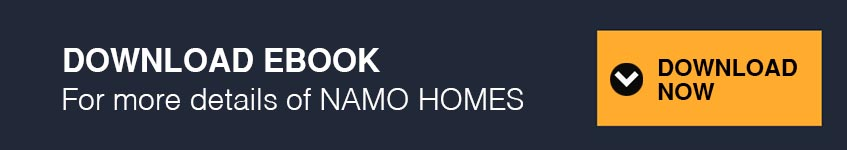
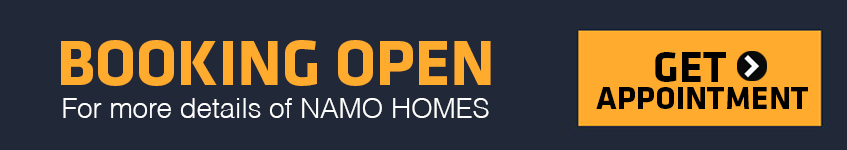
ddd

Changed region(s): [[0.0614, 0.2667, 0.6446, 0.8], [0.6753, 0.1867, 0.9823, 0.8533]]

diff --git a/dev/index2.html b/dev/index2.html
@@ -63,11 +63,15 @@
                   </p>
                   <p>Sprawled over 6.5 acres on Shivpuri-Gwalior National Highway (NH 27), Jhansi, the beautifully designed duplex villaments, offer all contemporary world-class facilities. The thoughtful design offers unobstructed views, spacious double-height living rooms, natural light at every level and complete privacy. </p>
                   <br> <br>
-				  <a href="#" data-toggle="modal" data-target=".contact-agent-modal" class="schedule-visit-btn-2">Schedule Visit <i class="fa fa-arrow-circle-right"></i></a>
-                  <a href="img/blog-post/namo-homes-ebook.pdf" target="_blank"><img src="img/page-title/visit.jpg"></a>
+				  <a href="#" data-toggle="modal" data-target=".contact-agent-modal" class="schedule-visit-btn-2"><img src="img/page-title/visit.jpg"></a>
+               <!--   
+			    <i class="fa fa-arrow-circle-right"></i>
+			   <a href="img/blog-post/namo-homes-ebook.pdf" target="_blank"></a>
 				  
 				  					<a href="#" data-toggle="modal-pdf" data-target=".contact-pdf-modal" class="schedule-visit-btn-2">Schedule Visit <i class="fa fa-arrow-circle-right"></i></a>
 									<button data-custom-open="modal-1">close</button>
+									
+									-->
                   <!-- .room-amount --
                      <ul class="room-amount text-center clearfix">
                      	<li>
@@ -314,8 +318,8 @@
                </div>
                <div id="cform" class="contact-form-wrap">
                   <div class="section-title location	">
-                     <span>For Any Querry</span>
-                     <h2><span>contact our agent pdf</span></h2>
+                     <span>Free ebook </span>
+                     <h2><span>Downlod E-brochure</span></h2>
                   </div>
                   <!-- /.section-title -->
                 <!--  <form action=" https://formsubmit.co/info@namohomes.com " class="contact-form" method="POST">
@@ -347,7 +351,7 @@
     <p style="margin-top:10px; "> <input  type="text" name="tel" placeholder="Your Phone" required> 	</p> 
 	<p><textarea name="message" placeholder="Message"></textarea>                   </p>    
     <button type="submit" style="margin-top:10px; width:100%; background-color:burlywood; color:white" >Send</button>
-	<input type="hidden" name="_captcha" value="true">	
+	<input type="hidden" name="_captcha" value="false">	
 	<input type="hidden" name="_next" value="http://namohomes.com/dev/img/blog-post/namo-homes-ebook.pdf">
 
 </form> 
@@ -378,19 +382,19 @@
 				<div class="modal-contact-form">
 					<!-- .contact-form-wrap -->
 					<div class="contact-form-wrap anim-5-all" style="padding-top:20px;">
-						<form action="http://world5.commonsupport.com/html/apart-villa/inc/sendemail.php" class="contact-form row" >
-							<div class="" >
-								
-								<p><input name="name" type="text" placeholder="Name"></p>
-								<p><input name="phone" type="text" placeholder="Phone"></p>
-								<p><input name="email" type="text" placeholder="Email"></p>
-								<p><textarea name="message" placeholder="Message"></textarea></p>
-								<p><button type="submit">Get Appointment</button></p>
-								<input type="hidden" name="_next" value="http://namohomes.com/img/blog-post/namo-homes-ebook.pdf">
-								<input type="text" name="_honey" style="display:none">
-							</div>
+				
+						
+				  		<form  action=" https://formsubmit.co/info@namohomes.com " method="POST"  >
 
-						</form>
+							 <p style="margin-top:10px; "><input type="text" name="name" placeholder="Your Name"  required></p> 
+							 <p style="margin-top:10px;" ><input  type="email" name="email" placeholder="Your Email" required></p> 
+							<p style="margin-top:10px; "> <input  type="text" name="tel" placeholder="Your Phone" required> 	</p> 
+							<p><textarea name="message" placeholder="Message"></textarea>                   </p>    
+							<button type="submit" style="margin-top:10px; width:100%; background-color:black; color:white" >Send</button>
+							<input type="hidden" name="_captcha" value="false">	
+							<input type="hidden" name="_next" value="http://namohomes.com/">
+
+						</form> 
 					</div><!-- /.contact-form-wrap -->					
 				</div>
 			</div>
@@ -400,64 +404,9 @@
 </div>
 </div>
 
-<div class="modal-pdf fade contact-agent-modal" id="contact-agent-modal-pdf" tabindex="1" role="dialog" aria-labelledby="myModalLabel">
-	<div class="modal-dialog" role="document">
-		<div class="modal-content">
-			<div class="modal-header">
-				<h4 class="modal-title text-center" id="myModalLabel">Contact Our Agent PDF</h4>
-				<button type="button" class="close" data-dismiss="modal" aria-label="Close"><span aria-hidden="true">&times;</span></button>
-			</div>
-			<div class="modal-body">
-				<div id="appoint-from" class="modal-agent-info-box">
-				<div class="modal-contact-form">
-					<!-- .contact-form-wrap -->
-					<div class="contact-form-wrap anim-5-all" style="padding-top:20px;">
-						<form action="http://world5.commonsupport.com/html/apart-villa/inc/sendemail.php" class="contact-form row" >
-							<div class="" >
-								
-								<p><input name="name" type="text" placeholder="Name"></p>
-								<p><input name="phone" type="text" placeholder="Phone"></p>
-								<p><input name="email" type="text" placeholder="Email"></p>
-								<p><textarea name="message" placeholder="Message"></textarea></p>
-								<p><button type="submit">Get Appointment</button></p>
-							</div>
-
-						</form>
-					</div><!-- /.contact-form-wrap -->					
-				</div>
-			</div>
-		</div>
-
-</div>
-</div>
-</div>
-
-!-- [1] -->
-<div id="modal-1" aria-hidden="true">
-
-  <!-- [2] -->
-  <div tabindex="-1" data-micromodal-close>
-
-    <!-- [3] -->
-    <div role="dialog" aria-modal="true" aria-labelledby="modal-1-title" >
 
 
-      <header>
-        <h2 id="modal-1-title">
-          Modal Title
-        </h2>
 
-        <!-- [4] -->
-        <button aria-label="Close modal" data-micromodal-close></button>
-      </header>
-
-      <div id="modal-1-content">
-        Modal Content
-      </div>
-
-    </div>
-  </div>
-</div>
         
 
 	
